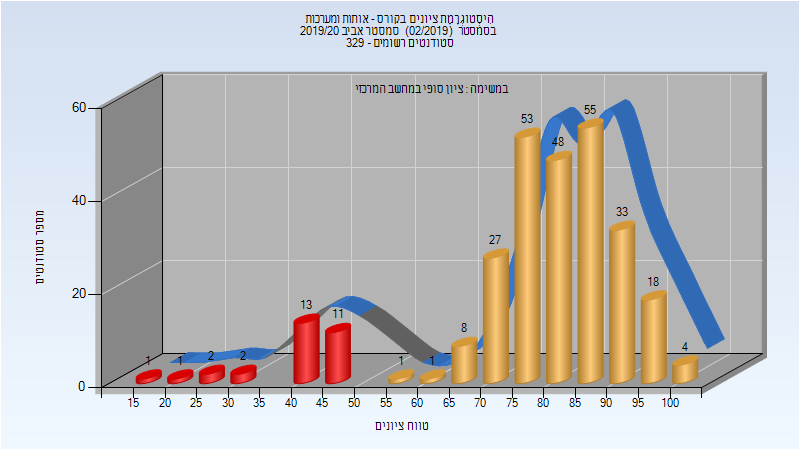
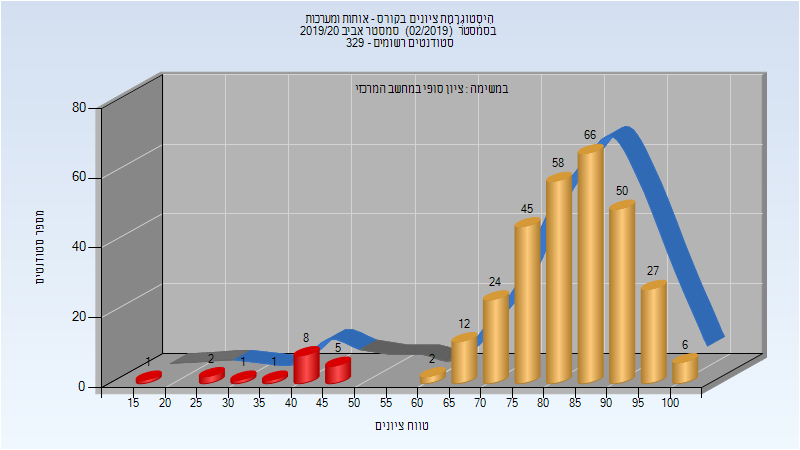
Deploy michael-maltsev/technion-histograms to github.com/michael-maltsev/technion-histograms.git:gh-pages

diff --git a/044157/index.html b/044157/index.html
@@ -387,5 +387,31 @@
 </tr>
 </tbody>
 </table>
+<h3>סופי</h3>
+<p><img src="201903/Finals.png" alt="201903 Finals" /></p>
+<table>
+<thead>
+<tr>
+<th>סטודנטים</th>
+<th>עברו/נכשלו</th>
+<th>אחוז עוברים</th>
+<th>ציון מינימלי</th>
+<th>ציון מקסימלי</th>
+<th>ממוצע</th>
+<th>חציון</th>
+</tr>
+</thead>
+<tbody>
+<tr>
+<td>85</td>
+<td>85/0</td>
+<td>100</td>
+<td>81</td>
+<td>100</td>
+<td>96.753</td>
+<td>97</td>
+</tr>
+</tbody>
+</table>
   </body>
 </html>

diff --git a/044131/index.html b/044131/index.html
@@ -758,13 +758,13 @@
 </thead>
 <tbody>
 <tr>
-<td>278</td>
-<td>248/30</td>
-<td>89</td>
+<td>308</td>
+<td>290/18</td>
+<td>94</td>
 <td>19</td>
 <td>100</td>
-<td>78.342</td>
-<td>81</td>
+<td>81.646</td>
+<td>84</td>
 </tr>
 </tbody>
 </table>

diff --git a/044157/README.md b/044157/README.md
@@ -120,3 +120,11 @@
 | ---- | ---- | ---- | ---- | ---- | ---- | ---- |
 | 86 | 86/0 | 100 | 81 | 100 | 96.709 | 97 |
 
+### סופי
+
+![201903 Finals](201903/Finals.png)
+
+| סטודנטים | עברו/נכשלו | אחוז עוברים | ציון מינימלי | ציון מקסימלי | ממוצע | חציון |
+| ---- | ---- | ---- | ---- | ---- | ---- | ---- |
+| 85 | 85/0 | 100 | 81 | 100 | 96.753 | 97 |
+

diff --git a/044131/README.md b/044131/README.md
@@ -232,5 +232,5 @@
 
 | סטודנטים | עברו/נכשלו | אחוז עוברים | ציון מינימלי | ציון מקסימלי | ממוצע | חציון |
 | ---- | ---- | ---- | ---- | ---- | ---- | ---- |
-| 278 | 248/30 | 89 | 19 | 100 | 78.342 | 81 |
+| 308 | 290/18 | 94 | 19 | 100 | 81.646 | 84 |
 
